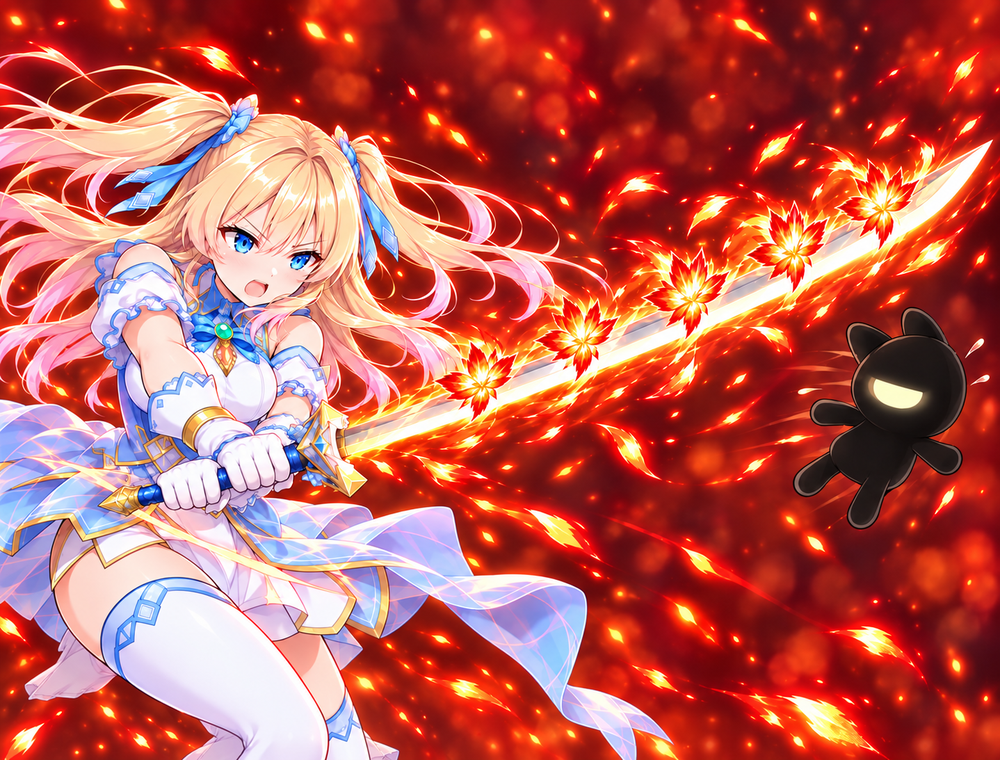
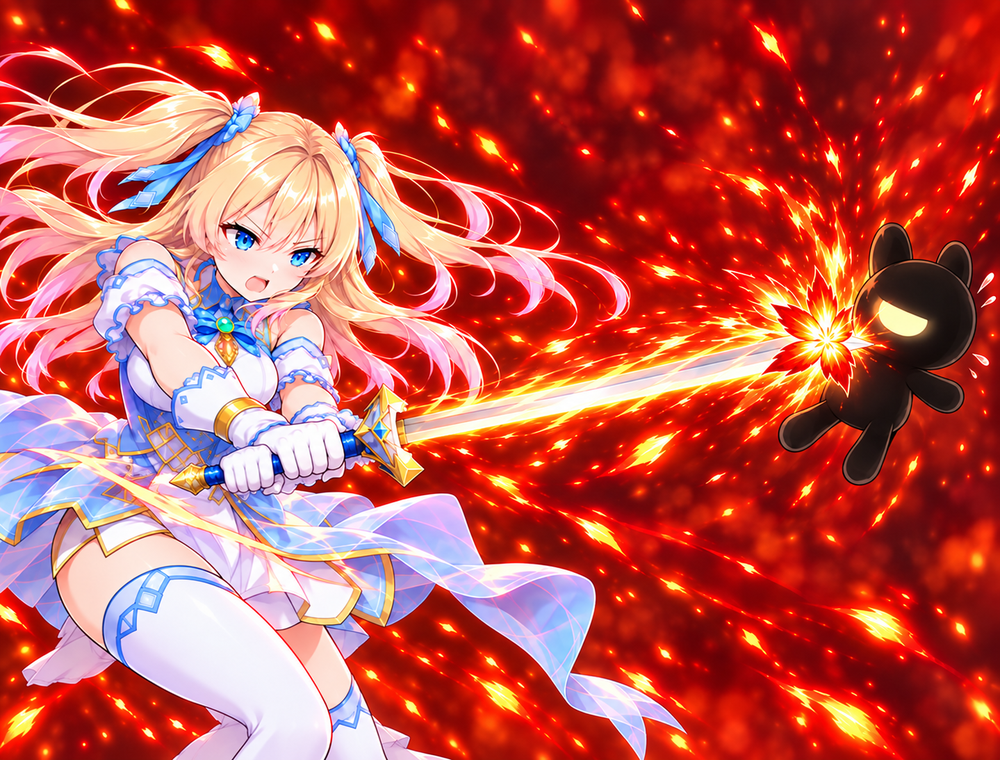
fix(maiden): revise performance audio and expose RitsuLib settings

diff --git a/src/Presentation/PerformanceAssets.cs b/src/Presentation/PerformanceAssets.cs
@@ -4,9 +4,6 @@ public enum PerformanceAudioCue
 {
     TransformationStart,
     TransformationComplete,
-    MagicCast,
-    DesireHigh,
-    DesireFull,
     EroticAttackTouch,
     EroticAttackTentacle,
     RestraintChain,
@@ -19,9 +16,7 @@ public enum PerformanceAudioCue
 
 public enum PerformanceLoopCue
 {
-    Heartbeat,
     Breath,
-    Masturbation,
 }
 
 internal static class PerformanceAssets
@@ -33,9 +28,6 @@ internal static class PerformanceAssets
     {
         PerformanceAudioCue.TransformationStart => Audio + "magic/transformation_start.ogg",
         PerformanceAudioCue.TransformationComplete => Audio + "magic/transformation_complete.ogg",
-        PerformanceAudioCue.MagicCast => Audio + "magic/magic_cast.ogg",
-        PerformanceAudioCue.DesireHigh => Audio + "desire/desire_high.ogg",
-        PerformanceAudioCue.DesireFull => Audio + "desire/desire_full.ogg",
         PerformanceAudioCue.EroticAttackTouch => Audio + "erotic_intents/erotic_attack_touch.ogg",
         PerformanceAudioCue.EroticAttackTentacle => Audio + "erotic_intents/erotic_attack_tentacle.ogg",
         PerformanceAudioCue.RestraintChain => Audio + "erotic_intents/restraint_chain.ogg",
@@ -49,9 +41,7 @@ internal static class PerformanceAssets
 
     public static string AudioPath(PerformanceLoopCue cue) => cue switch
     {
-        PerformanceLoopCue.Heartbeat => Audio + "desire/heartbeat.ogg",
         PerformanceLoopCue.Breath => Audio + "erotic_intents/breath.ogg",
-        PerformanceLoopCue.Masturbation => Audio + "rest_site/masturbation_loop.ogg",
         _ => throw new ArgumentOutOfRangeException(nameof(cue), cue, null),
     };
 
@@ -66,7 +56,7 @@ internal static class PerformanceAssets
         or PerformanceAudioCue.Climax;
 
     public static bool IsAdult(PerformanceLoopCue cue) => cue is
-        PerformanceLoopCue.Breath or PerformanceLoopCue.Masturbation;
+        PerformanceLoopCue.Breath;
 
     public static string Control(ControlVisualKind kind) => kind switch
     {

diff --git a/src/Presentation/PerformanceAudioService.cs b/src/Presentation/PerformanceAudioService.cs
@@ -1,8 +1,6 @@
 using Godot;
-using MegaCrit.Sts2.Core.Combat;
 using MegaCrit.Sts2.Core.Nodes;
 using STS2RitsuLib;
-using MaidenSuccubus.Core.Desire;
 
 namespace MaidenSuccubus.Presentation;
 
@@ -21,7 +19,6 @@ public static class PerformanceAudioService
     {
         if (_initialized) return;
         _initialized = true;
-        DesireEvents.Changed += OnDesireChanged;
         Subscriptions.Add(RitsuLibFramework.SubscribeLifecycle<CombatEndedEvent>(
             _ => PerformanceDirector.OnCombatEnded(), replayCurrentState: false));
     }
@@ -60,6 +57,9 @@ public static class PerformanceAudioService
         player.Finished += () => ReleaseOneShot(player);
         player.Play();
     }
+
+    /// <summary>Desire maximum reuses the same single cue as the rest-site action.</summary>
+    public static void PlayDesireMaximum() => PlayOneShot(PerformanceAudioCue.Climax);
 
     public static void StartLoop(PerformanceLoopCue cue, float fadeSeconds = 0.2f)
     {
@@ -179,28 +179,6 @@ public static class PerformanceAudioService
         Loops.TryGetValue(cue, out AudioStreamPlayer? player)
         && GodotObject.IsInstanceValid(player)
         && player.IsPlaying();
-
-    private static void OnDesireChanged(DesireChanged change)
-    {
-        if (!PerformanceAudience.IsLocalMaiden(change.Player)) return;
-
-        if (change.OldValue < 8 && change.NewValue >= 8 && change.NewValue < 10)
-        {
-            PlayOneShot(PerformanceAudioCue.DesireHigh);
-        }
-
-        bool activeCombat = CombatManager.Instance.IsInProgress
-            && !CombatManager.Instance.IsEnding
-            && change.Player.Creature.CombatState != null;
-        if (activeCombat && change.NewValue >= 8)
-        {
-            StartLoop(PerformanceLoopCue.Heartbeat);
-        }
-        else
-        {
-            StopLoop(PerformanceLoopCue.Heartbeat);
-        }
-    }
 
     private static Node? EnsureHost()
     {

diff --git a/src/Powers/TransformationPowers.cs b/src/Powers/TransformationPowers.cs
@@ -226,26 +226,6 @@ public sealed class MagicAmplificationPower : MaidenSuccubusPowerTemplate
         && (_cardToAmplify == null
             || (ReferenceEquals(card, _cardToAmplify) && _reservedForOverdraft < Amount));
 
-    public override Task AfterApplied(Creature? applier, CardModel? cardSource)
-    {
-        PlayGainFeedback();
-        return Task.CompletedTask;
-    }
-
-    public override Task AfterPowerAmountChanged(
-        PlayerChoiceContext context,
-        PowerModel power,
-        decimal amount,
-        Creature? applier,
-        CardModel? cardSource)
-    {
-        if (ReferenceEquals(power, this) && amount > 0)
-        {
-            PlayGainFeedback();
-        }
-        return Task.CompletedTask;
-    }
-
     internal bool TryReserveForOverdraft(CardModel? card)
     {
         if (card == null || AmplificationConsumptionScope.IsExempt(card)) return false;
@@ -329,17 +309,6 @@ public sealed class MagicAmplificationPower : MaidenSuccubusPowerTemplate
         || (card?.Enchantment != null && Owner.HasPower<TacticalCorePower>())
             ? 2m
             : 1.5m;
-
-    private void PlayGainFeedback()
-    {
-        if (CombatManager.Instance.IsInProgress
-            && !CombatManager.Instance.IsEnding
-            && Owner.CombatState != null
-            && PerformanceAudience.IsLocalMaiden(Owner.Player))
-        {
-            PerformanceAudioService.PlayOneShot(PerformanceAudioCue.MagicCast);
-        }
-    }
 
     public override async Task AfterCardPlayed(
         PlayerChoiceContext context,

diff --git a/src/Presentation/PerformanceSettings.cs b/src/Presentation/PerformanceSettings.cs
@@ -56,13 +56,13 @@ public static class PerformanceSettings
             .AsChildOf(MaidenSuccubusMod.ModId)
             .WithTitle(ModSettingsText.Literal("过场与音频"))
             .WithModDisplayName(ModSettingsText.Literal("Maiden & Succubus"))
-            .WithVisibleOnHostSurfaces(ModSettingsHostSurface.MainMenu)
+            .WithVisibleOnHostSurfaces(ModSettingsHostSurface.All)
             .AddSection("adult_presentation", section => section
                 .WithTitle(ModSettingsText.Literal("成人演出"))
                 .AddToggle("adult_cg", ModSettingsText.Literal("播放成人过场 CG"), cg,
                     ModSettingsText.Literal("关闭时不创建过场画面；战斗与火堆效果照常结算。"))
                 .AddToggle("adult_audio", ModSettingsText.Literal("播放成人演出音频"), audio,
-                    ModSettingsText.Literal("关闭时不加载成人音频；普通变身与欲望提示音不受影响。")))
+                    ModSettingsText.Literal("关闭时不加载成人演出音频；变身开始与完成音效不受影响。")))
             .AddSection("volumes", section => section
                 .WithTitle(ModSettingsText.Literal("音量"))
                 .AddIntSlider("normal_volume", ModSettingsText.Literal("普通演出音量"),

diff --git a/src/Presentation/PerformanceDirector.cs b/src/Presentation/PerformanceDirector.cs
@@ -85,23 +85,14 @@ public static class PerformanceDirector
             return;
         }
 
-        PerformanceAudioService.StartLoop(PerformanceLoopCue.Masturbation);
-        try
-        {
-            await CutscenePlaybackService.PlayAsync(
-                player,
-                PerformanceAssets.MasturbationSequence,
-                index =>
-                {
-                    if (index != 1) return;
-                    PerformanceAudioService.StopLoop(PerformanceLoopCue.Masturbation, 0.1f);
+        await CutscenePlaybackService.PlayAsync(
+            player,
+            PerformanceAssets.MasturbationSequence,
+            index =>
+            {
+                if (index == 1)
                     PerformanceAudioService.PlayOneShot(PerformanceAudioCue.Climax);
-                });
-        }
-        finally
-        {
-            PerformanceAudioService.StopLoop(PerformanceLoopCue.Masturbation);
-        }
+            });
     }
 
     public static void OnSceneTransition()

diff --git a/src/Core/Transformation/TransformationCmd.cs b/src/Core/Transformation/TransformationCmd.cs
@@ -136,10 +136,6 @@ public static class TransformationCmd
             await PowerCmd.ModifyAmount(
                 choiceContext, armor, amount, creature, source);
         }
-        if (PerformanceAudience.IsLocalMaiden(creature.Player))
-        {
-            PerformanceAudioService.PlayOneShot(PerformanceAudioCue.MagicCast);
-        }
         return true;
     }
 

diff --git a/src/Core/Desire/DesireResourceRules.cs b/src/Core/Desire/DesireResourceRules.cs
@@ -157,7 +157,7 @@ public sealed class DesireResourceRules : ISecondaryResourceHookListener
     {
         if (PerformanceAudience.IsLocalMaiden(player))
         {
-            PerformanceAudioService.PlayOneShot(PerformanceAudioCue.DesireFull);
+            PerformanceAudioService.PlayDesireMaximum();
         }
     }
 

diff --git a/docs/DESIGN_TRACEABILITY.md b/docs/DESIGN_TRACEABILITY.md
@@ -1,5 +1,11 @@
 # DesignDoc需求追踪矩阵
 
+## 2026-10-01 音频触发与RitsuLib设置修订（PERF-AUDIO-20261001，IMPLEMENTED 待复验）
+
+前置快照 `5a1a9aacd86979facd5221705a830a726bc02706`，12项目标文件逐项备份；DesignDoc逐行/词级漂移仅有既有邪瘴文案与书库归属，未覆盖设计工作树。用户明确删除施法音和欲望达到8时音效；移除MagicCast及DesireHigh/Heartbeat触发，欲望满值撤下DesireFull音效，最终按用户补充指令，火堆自慰和欲望满值均只播放高潮音；循环音及原满值音不再触发。源音频清单仍保留原16个素材供追溯，但其中5个不再运行时引用。
+CG与音频独立开关显示于RitsuLib主菜单、跑局暂停和战斗暂停设置；模组清单description精确改为`playable character`，后续部署必须同步该清单。音量设置保持原有持久化与默认成人关闭。为恢复全量资源门，按已确认正式卡图清单同步最新FlameBloom运行时图；同步源/运行时SHA-256。未来定向部署脚本包含MaidenSuccubus.json。验证：Debug --no-restore -p:DeployMod=false -p:ValidateMod=true 完整构建与内容、结构、154张正式卡图、13CG/16OGG源资源、本地化及卡牌/意图门全部通过，0警告0错误；RitsuLib三类宿主界面可见设置源码契约、已撤音效不再引用与高潮音双触发校验通过。定向部署脚本默认预检通过，未执行Apply。CG/音频实际可见可闻效果需游戏内复验，不标记VERIFIED。 按用户先前要求暂不部署。
+
+
 ## 2026-10-01 选角简介与正式卡图更新（PROFILE-ART-20261001，IMPLEMENTED 待复验）
 
 前置快照 `59a91e09a65742dcde4bf124392c4a0c2a53ea9e`；目标旧资源与文本逐文件备份。用户明确更新选角简介为两句话并保留换行：与魔导书·娅露丝相遇，获得魔法力量的少女。 / 虽然内心依然纯洁，但身体却因为快感而慢慢觉醒。
@@ -958,3 +964,6 @@ SYS-SEA-001/ACT4-001→DS27-01B→封印方向悬停、实际永久实例/拥有
 `MON-ERO-CATALOG-001`→`DS27-03`→`TestDesignSyncMonsterRoster20260927.test_every_intent_has_core_values_consumed_by_runtime_parser`：239个允许候选的核心欲望/伤害/次数、格挡/挣脱、侵犯诅咒格式均可被现有解析表达式读取，诅咒名称在运行时名单内；仅为静态正文契约，非全部附加效果的实战证明。
 
 `MON-ERO-CATALOG-001`→`DS27-03`→`EROTIC_ATTACK_ASSIGNMENTS.md`/`EROTIC_ATTACK_INTENTS.md`→`EroticAttackCatalog.Build`→`TestDesignSyncMonsterRoster20260927.test_parafright_is_only_steadfast_without_erotic_intents`：用户确认胧光怪召唤的`PARAFRIGHT`为`S`；目录102个ID、18个意志坚定，幻象怪没有A/B/I、阈值或恢复动作。静态契约通过；召唤后实际Power施加和意图隔离待游戏内验收。
+
+
+`START-001`/`SYS-TRF-004` → `ASSET-CEL-UI-20261001` → `图片素材/选角界面/V3竖向适配_20261001`、选角兼容资源与`maiden_succubus_merchant.tscn`：原版/Hornet132×195、TheQueen131×194；正常/锁定竖图132×195、原生88×130蒙版，商店有效高度+15%、脚底不变。资源定向检查及完整门见本批记录；IMPLEMENTED，实机待验，未部署。遗物43枚V3单独为美术候选，未进入正式运行时，不标VERIFIED。

diff --git a/CHANGELOG.md b/CHANGELOG.md
@@ -1,5 +1,12 @@
 # Changelog
 
+## 2026-10-01 音频触发与RitsuLib设置修订（PERF-AUDIO-20261001，IMPLEMENTED 待复验）
+
+前置快照 `5a1a9aacd86979facd5221705a830a726bc02706`，12项目标文件逐项备份；DesignDoc逐行/词级漂移仅有既有邪瘴文案与书库归属，未覆盖设计工作树。用户明确删除施法音和欲望达到8时音效；移除MagicCast及DesireHigh/Heartbeat触发，欲望满值撤下DesireFull音效，最终按用户补充指令，火堆自慰和欲望满值均只播放高潮音；循环音及原满值音不再触发。源音频清单仍保留原16个素材供追溯，但其中5个不再运行时引用。
+CG与音频独立开关显示于RitsuLib主菜单、跑局暂停和战斗暂停设置；模组清单description精确改为`playable character`，后续部署必须同步该清单。音量设置保持原有持久化与默认成人关闭。为恢复全量资源门，按已确认正式卡图清单同步最新FlameBloom运行时图；同步源/运行时SHA-256。未来定向部署脚本包含MaidenSuccubus.json。验证：Debug --no-restore -p:DeployMod=false -p:ValidateMod=true 完整构建与内容、结构、154张正式卡图、13CG/16OGG源资源、本地化及卡牌/意图门全部通过，0警告0错误；RitsuLib三类宿主界面可见设置源码契约、已撤音效不再引用与高潮音双触发校验通过。定向部署脚本默认预检通过，未执行Apply。CG/音频实际可见可闻效果需游戏内复验，不标记VERIFIED。 按用户先前要求暂不部署。
+
+
+
 ## 2026-10-01 — 火焰绽放卡图单朵火花与命中构图
 
 改动前快照 `maiden-card-art-before-20261001-flame-bloom-v07`。按玩家最新反馈将剑刃上的多朵火花改为命中点唯一一朵完整火焰花，剑尖明确击中墨宝；维持双手正握及原版 Inklet 的完整双耳、单条发光眼和四肢。图像为 1000×760 RGB，正式清单 SHA-256 已同步。仅修改卡图及记录，未改玩法、DesignDoc 或运行时资源，未部署。
